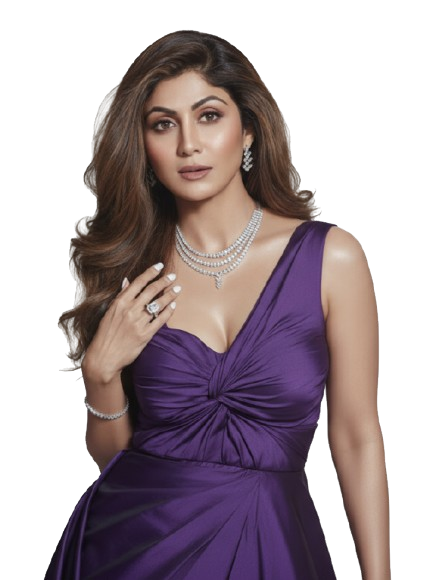
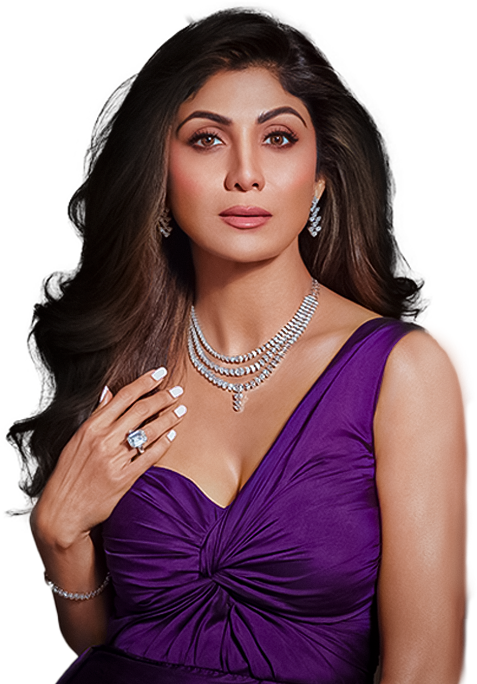
version13

diff --git a/index.html b/index.html
@@ -76,11 +76,10 @@
         }
         
         .luxury-gradient {
-            background: url('images/web-banner.jpg') no-repeat center center;
-            background-size:cover;
+            background: linear-gradient(90deg,#450b34 0%,#825e68 100%);
             height:auto;
             overflow: hidden;
-            padding-top:0px;
+            padding-top:30px;
         }
 
         @media all and (min-width:1400px) {
@@ -341,9 +340,9 @@
                 <div class="text-center">
                     <div class="relative inline-block text-center starbg">
                         <img src="images/star.png" class="absolute left-50 opacity-20" alt="Star Background" />
-                        <!-- Large Diamond Visual
-                       <img src="images/shilpa-shetty-new.png" class="inline-block bottom-0" alt="Diamond Luxe Franchise" />
-                    -->
+                        
+                       <img src="images/shilpa-shetty-new-1.png" class="inline-block bottom-0" alt="Diamond Luxe Franchise" />
+                
                        
                     </div>
                 </div>
@@ -352,7 +351,7 @@
                     <h1 class="text-5xl md:text-6xl font-serif text-white mb-6 fade-in">
                         Own <b class="bg-plum-600 text-white px-4 rounded-lg">Limelight</b> in <br/>Your City
                     </h1>
-                    <p class="text-xl md:text-2xl text-gray-700 mb-8 fade-in text-white" style="animation-delay: 0.2s">
+                    <p class="text-xl md:text-2xl mb-8 fade-in text-white" style="animation-delay: 0.2s">
                         Partner with India's #1 Lab-Grown Diamond Brand
                     </p>
                     
@@ -666,9 +665,9 @@ LGD jewellery with</h4>
             <!-- Industry Leadership & Certifications Combined -->
             <div class="container">
                 <div class="grid md:grid-cols-3 gap-8 items-center">
-                    <div><img src="images/media-1.png" /></div>
-                    <div><img src="images/media-2.png" /></div>
-                    <div><img src="images/media-3.png" /></div>
+                    <div><img src="images/celebrity-banner-01.jpg" /></div>
+                    <div><img src="images/recognization-banner-02.jpg" /></div>
+                    <div><img src="images/coverage-banner-03.jpg" /></div>
                 </div>
               
                 <!-- Featured Publications Carousel -->
